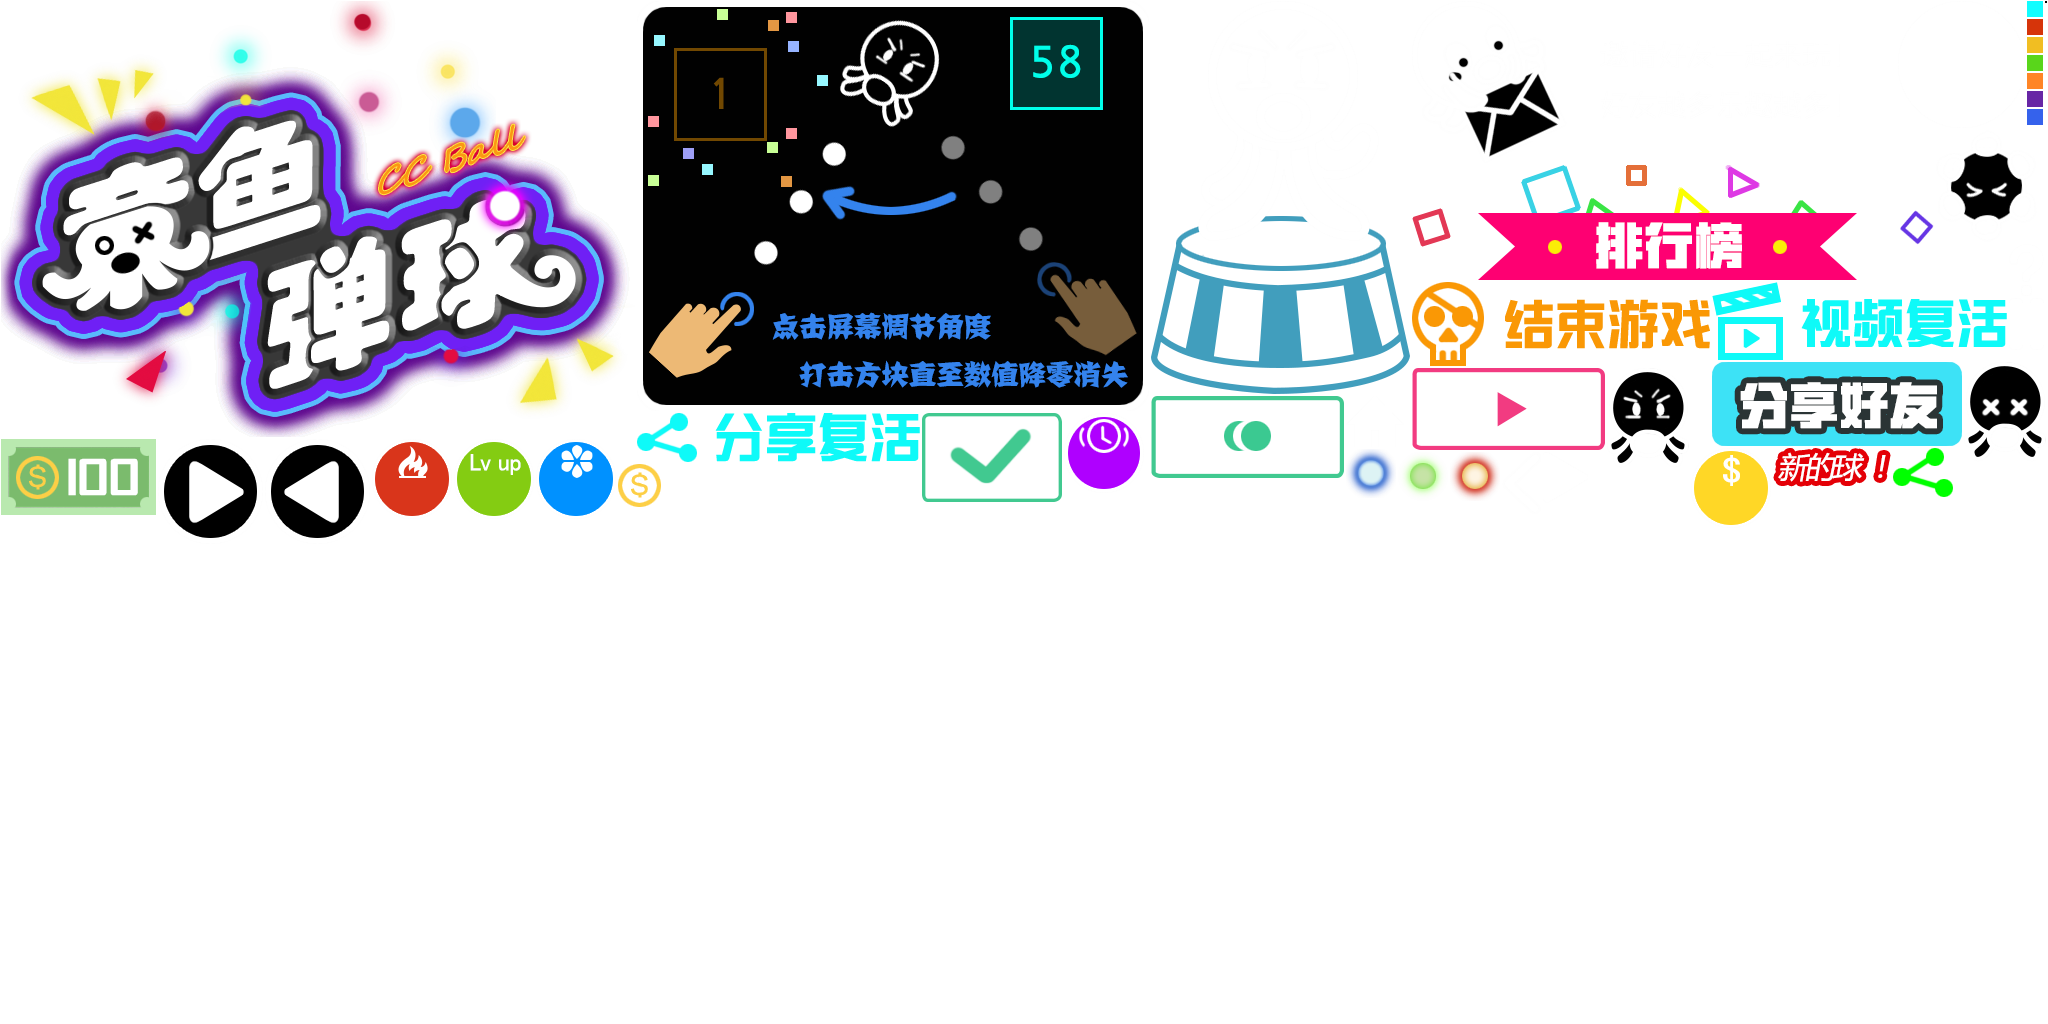
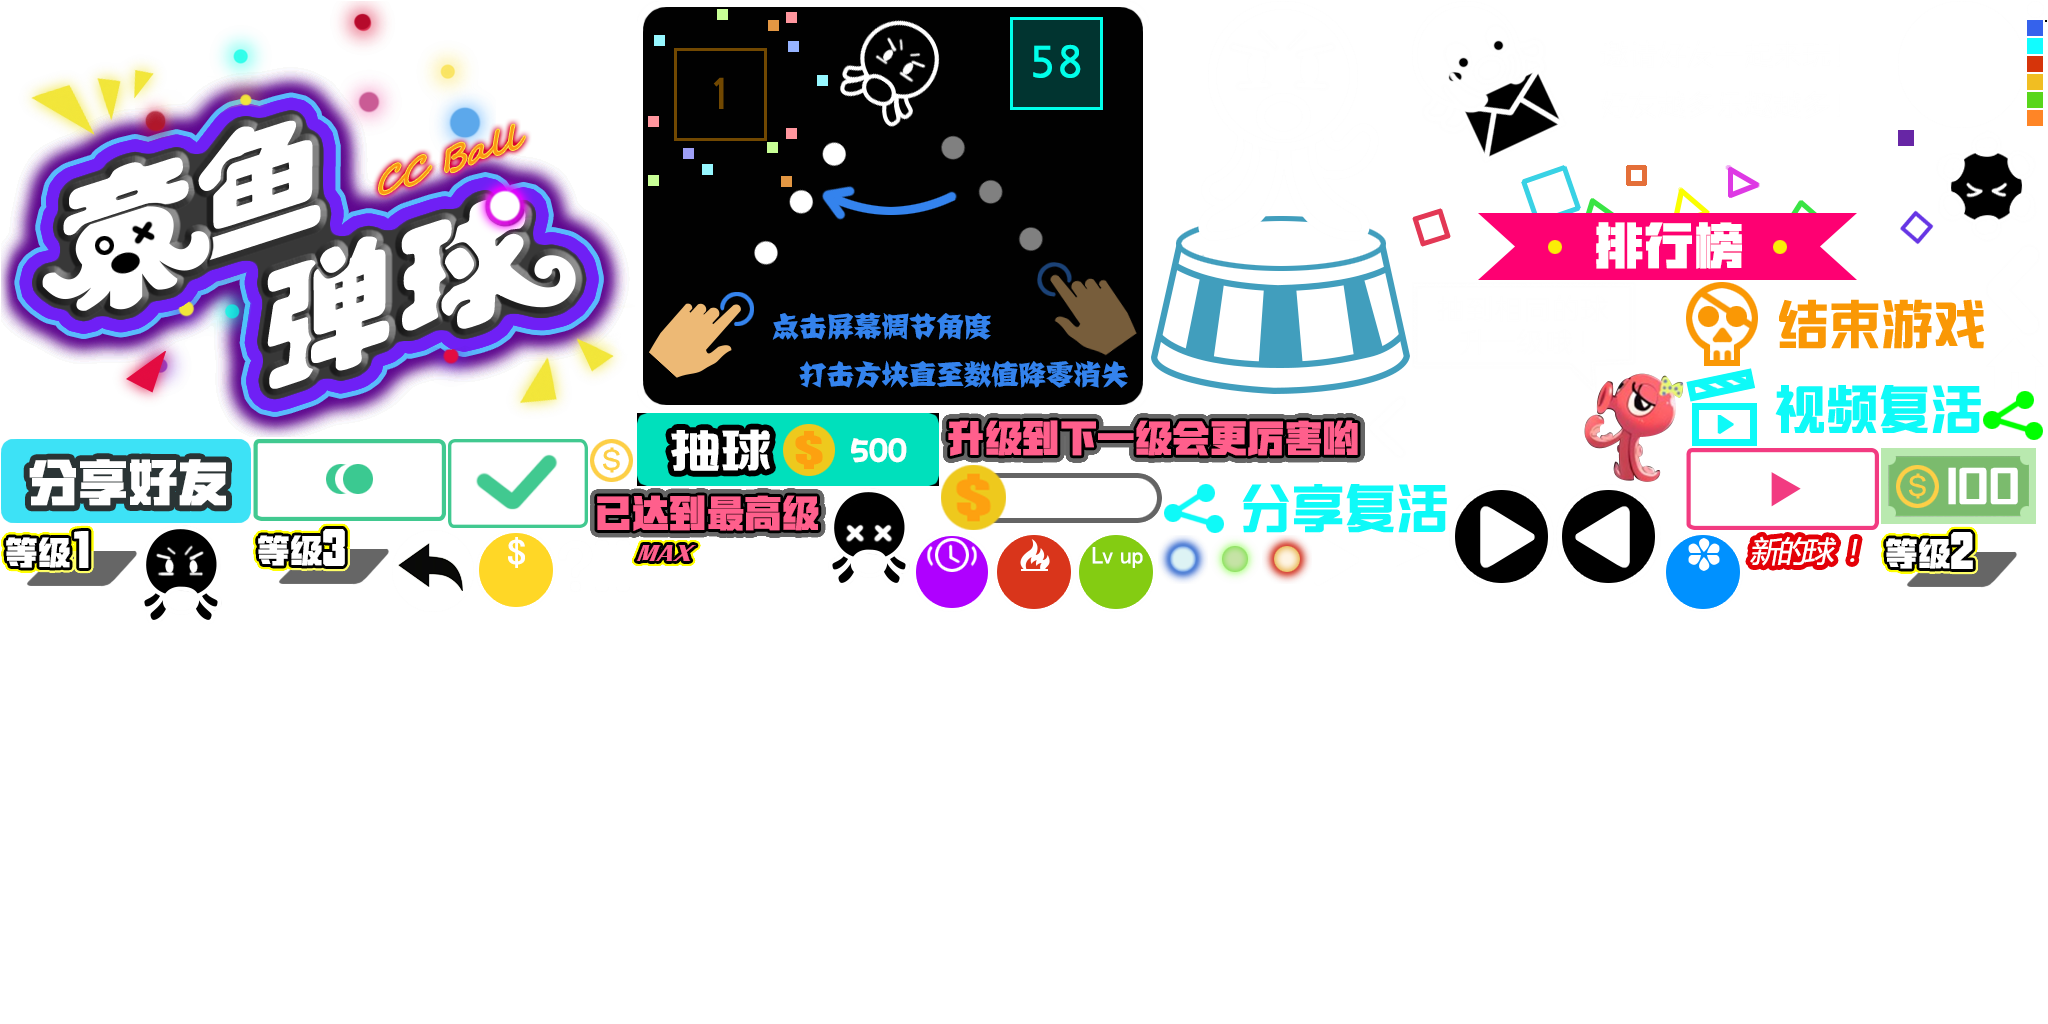
商店资源合入

Changed region(s): [[0.0, 0.2812, 1.0, 0.5938], [0.9688, 0.0, 1.0, 0.125], [0.9062, 0.125, 0.9375, 0.1562]]

diff --git a/BallProject/src/GameView/SecondaryView/ShopView.ts b/BallProject/src/GameView/SecondaryView/ShopView.ts
@@ -1,27 +1,35 @@
 class ShopView extends egret.DisplayObjectContainer
 {
-    private bgCover:FullScreenCover;
-    private noGoodsTitle:egret.TextField;
-    private noGoodsDetail:egret.TextField;
-    private back:ShapeBgButton;
-    private callbackObj:any;
-    private callbackFun:Function;
+    private bgCover: FullScreenCover;
+    private noGoodsTitle: egret.TextField;
+    private noGoodsDetail: egret.TextField;
+    private back: ShapeBgButton;
+    private callbackObj: any;
+    private callbackFun: Function;
 
     private previousBtn: ShapeBgButton;
     private nextBtn: ShapeBgButton;
     private selectBtn: ShapeBgButton;
     private lotteryBtn: ShapeBgButton;
-    
+
     private resModule: IResModule;
     private ballConfigModule: IBallConfigModule;
+    private playerDataModule: IPlayerDataModule;
+
     private curShowBallPosIndex: number;
     private curShowBallId: number;
     private totalBallCount: number;
 
+    private coinBitmap: egret.Bitmap;
+    private coinText: egret.TextField;
+
     private selectBallRoot: egret.DisplayObjectContainer;
     private ballBitmap: egret.Bitmap;
     private ballIndexText: egret.TextField;
+    private ballLevelBitmap: egret.Bitmap;
+    private ballLevelMaxBitmap: egret.Bitmap;
     private ballNameText: egret.TextField;
+    private ballSkillText: egret.TextField;
     private curLevelText: egret.TextField;
     private nextLevelText: egret.TextField;
 
@@ -32,11 +40,14 @@ class ShopView extends egret.DisplayObjectContainer
         super();
         this.resModule = <IResModule>GameMain.GetInstance().GetModule(ModuleType.RES);
         this.ballConfigModule = <IBallConfigModule>GameMain.GetInstance().GetModule(ModuleType.BALL_CONFIG);
+        this.playerDataModule = <IPlayerDataModule>GameMain.GetInstance().GetModule(ModuleType.PLAYER_DATA);
 
         this.CreateBgCover();
         // this.CreateTitle();
         // this.CreateDetail();
         this.CreateBack();
+
+        this.CreateCoin();
 
         this.curShowBallPosIndex = 1;
         this.totalBallCount = this.ballConfigModule.GetTotalBallCount();
@@ -52,11 +63,11 @@ class ShopView extends egret.DisplayObjectContainer
         this.addChild(this.selectBallRoot);
 
         this.CreateSelectViewButton();
-        
+
         this.RefreshBallInfo();
     }
 
-    public Init(callbackFun:Function, callbackObj:any)
+    public Init(callbackFun: Function, callbackObj: any)
     {
         this.callbackFun = callbackFun;
         this.callbackObj = callbackObj;
@@ -74,6 +85,31 @@ class ShopView extends egret.DisplayObjectContainer
         this.addChild(this.bgCover);
     }
 
+    private CreateCoin()
+    {
+        Tools.DetachDisplayObjFromParent(this.coinBitmap);
+        Tools.DetachDisplayObjFromParent(this.coinText);
+
+        this.coinText = new egret.TextField();
+        this.coinText.size = 40;
+        this.coinText.textColor = 0xFFFFFF;
+        this.coinText.text = this.playerDataModule.GetCoin().toString();
+        this.coinText.textAlign = "center";
+        this.coinText.width = 400;
+        this.coinText.height = 100;
+        Tools.SetAnchor(this.coinText, AnchorType.Center);
+        this.coinText.x = GameMain.GetInstance().GetStageWidth() - 100;
+        this.coinText.y = 130;
+        this.addChild(this.coinText);
+
+        this.coinBitmap = this.resModule.CreateBitmapByName("shopCoin");
+        Tools.SetAnchor(this.coinBitmap, AnchorType.Center);
+        this.coinBitmap.x = GameMain.GetInstance().GetStageWidth() - this.coinBitmap.width / 2 - 15;
+        this.coinBitmap.y = 100;
+        this.addChild(this.coinBitmap);
+
+    }
+
     private RefreshBallInfo()
     {
         Tools.DetachDisplayObjFromParent(this.ballIndexText);
@@ -81,6 +117,15 @@ class ShopView extends egret.DisplayObjectContainer
         Tools.DetachDisplayObjFromParent(this.ballNameText);
         Tools.DetachDisplayObjFromParent(this.curLevelText);
         Tools.DetachDisplayObjFromParent(this.nextLevelText);
+        Tools.DetachDisplayObjFromParent(this.ballSkillText);
+        Tools.DetachDisplayObjFromParent(this.ballLevelBitmap);
+        Tools.DetachDisplayObjFromParent(this.ballLevelMaxBitmap);
+
+        this.curShowBallId = this.GetShopViewBallIdByIndex(this.curShowBallPosIndex);
+        var ballLevel = this.ballConfigModule.GetMyBallLevel(this.curShowBallId);
+        var hasThisBall = ballLevel > 0;
+        var curLevel = hasThisBall ? ballLevel : 1;
+        var curLevelBallConfig = this.ballConfigModule.GetBallConfig(this.curShowBallId, curLevel);
 
         this.ballIndexText = new egret.TextField();
         this.ballIndexText.size = 40;
@@ -91,22 +136,32 @@ class ShopView extends egret.DisplayObjectContainer
         this.ballIndexText.height = 100;
         Tools.SetAnchor(this.ballIndexText, AnchorType.Center);
         this.ballIndexText.x = GameMain.GetInstance().GetStageWidth() / 2;
-        this.ballIndexText.y = 300;
+        this.ballIndexText.y = 130;
         this.selectBallRoot.addChild(this.ballIndexText);
-
-        this.curShowBallId = this.GetShopViewBallIdByIndex(this.curShowBallPosIndex);
-        var ballLevel = this.ballConfigModule.GetMyBallLevel(this.curShowBallId);
-        var hasThisBall = ballLevel > 0;
-        var curLevel = hasThisBall ? ballLevel : 1;
-        var curLevelBallConfig = this.ballConfigModule.GetBallConfig(this.curShowBallId, curLevel);
 
         this.ballBitmap = this.resModule.CreateBitmapByName(curLevelBallConfig.textureName);
         this.ballBitmap.width = curLevelBallConfig.ballRadius * 10;
         this.ballBitmap.height = curLevelBallConfig.ballRadius * 10;
         Tools.SetAnchor(this.ballBitmap, AnchorType.Center);
         this.ballBitmap.x = GameMain.GetInstance().GetStageWidth() / 2;
-        this.ballBitmap.y = 400;
+        this.ballBitmap.y = 300;
         this.selectBallRoot.addChild(this.ballBitmap);
+
+        this.ballLevelBitmap = this.resModule.CreateBitmapByName("level" + curLevelBallConfig.level);
+        Tools.SetAnchor(this.ballLevelBitmap, AnchorType.Center);
+        this.ballLevelBitmap.x = GameMain.GetInstance().GetStageWidth() / 2 + 200;
+        this.ballLevelBitmap.y = 180;
+        this.selectBallRoot.addChild(this.ballLevelBitmap);
+
+        if (curLevelBallConfig.level == curLevelBallConfig.maxLevel)
+        {
+            this.ballLevelMaxBitmap = this.resModule.CreateBitmapByName("levelMax");
+            Tools.SetAnchor(this.ballLevelMaxBitmap, AnchorType.Center);
+            this.ballLevelMaxBitmap.x = GameMain.GetInstance().GetStageWidth() / 2 + 230;
+            this.ballLevelMaxBitmap.y = 210;
+            this.selectBallRoot.addChild(this.ballLevelMaxBitmap);
+        }
+
 
         this.ballNameText = new egret.TextField();
         this.ballNameText.size = 40;
@@ -114,23 +169,36 @@ class ShopView extends egret.DisplayObjectContainer
         this.ballNameText.text = curLevelBallConfig.name;
         this.ballNameText.textAlign = "center";
         this.ballNameText.width = 400;
-        this.ballNameText.height = 100;
+        this.ballNameText.height = 300;
         Tools.SetAnchor(this.ballNameText, AnchorType.Center);
         this.ballNameText.x = GameMain.GetInstance().GetStageWidth() / 2;
         this.ballNameText.y = 600;
         this.selectBallRoot.addChild(this.ballNameText);
 
+        this.ballSkillText = new egret.TextField();
+        this.ballSkillText.size = 30;
+        this.ballSkillText.textColor = 0xFFFFFF;
+        this.ballSkillText.text = "- " + curLevelBallConfig.skillDes + " -";
+        this.ballSkillText.textAlign = "center";
+        this.ballSkillText.width = GameMain.GetInstance().GetStageWidth();
+        this.ballSkillText.height = 300;
+        Tools.SetAnchor(this.ballSkillText, AnchorType.Center);
+        this.ballSkillText.x = GameMain.GetInstance().GetStageWidth() / 2;
+        this.ballSkillText.y = 650;
+        this.selectBallRoot.addChild(this.ballSkillText);
+
+
         this.curLevelText = new egret.TextField();
         this.curLevelText.size = 40;
         this.curLevelText.textColor = 0xFFFFFF;
         this.curLevelText.textFlow = <Array<egret.ITextElement>>
-        [
-            { text:"等级" + curLevel + "\n", style:{"textColor":0xFFC900, "size":40} },
-            { text:"半径: " + curLevelBallConfig.ballRadius + "\n", style:{"textColor":0xFFFFFF, "size":30} },
-            { text:"速度: " + curLevelBallConfig.emitSpeed + "\n", style:{"textColor":0xFFFFFF, "size":30} },
-            { text:"技能: "  , style:{"textColor":0xFFFFFF, "size":30} },
-            { text:curLevelBallConfig.Describe , style:{"textColor":0x00EC00, "size":30} },
-        ]
+            [
+                { text: "等级" + curLevel + "\n", style: { "textColor": 0xFFC900, "size": 40 } },
+                { text: "半径: " + curLevelBallConfig.ballRadius + "\n", style: { "textColor": 0xFFFFFF, "size": 30 } },
+                { text: "速度: " + curLevelBallConfig.emitSpeed + "\n", style: { "textColor": 0xFFFFFF, "size": 30 } },
+                { text: "技能: ", style: { "textColor": 0xFFFFFF, "size": 30 } },
+                { text: curLevelBallConfig.Describe, style: { "textColor": 0x00EC00, "size": 30 } },
+            ]
         this.curLevelText.textAlign = "left";
         this.curLevelText.width = GameMain.GetInstance().GetStageWidth() / 3;
         this.curLevelText.height = 600;
@@ -150,23 +218,23 @@ class ShopView extends egret.DisplayObjectContainer
             {
                 this.nextLevelText.textAlign = "left";
                 this.nextLevelText.textFlow = <Array<egret.ITextElement>>
-                [
-                    { text:"等级" + nextLevel + "\n", style:{"textColor":0xFFC900, "size":40} },
-                    { text:"半径: " + nextLevelBallConfig.ballRadius + "\n", style:{"textColor":0xFFFFFF, "size":30} },
-                    { text:"速度: " + nextLevelBallConfig.emitSpeed + "\n", style:{"textColor":0xFFFFFF, "size":30} },
-                    { text:"技能: "  , style:{"textColor":0xFFFFFF, "size":30} },
-                    { text:curLevelBallConfig.Describe , style:{"textColor":0x00EC00, "size":30} },
-                ]
+                    [
+                        { text: "等级" + nextLevel + "\n", style: { "textColor": 0xFFC900, "size": 40 } },
+                        { text: "半径: " + nextLevelBallConfig.ballRadius + "\n", style: { "textColor": 0xFFFFFF, "size": 30 } },
+                        { text: "速度: " + nextLevelBallConfig.emitSpeed + "\n", style: { "textColor": 0xFFFFFF, "size": 30 } },
+                        { text: "技能: ", style: { "textColor": 0xFFFFFF, "size": 30 } },
+                        { text: curLevelBallConfig.Describe, style: { "textColor": 0x00EC00, "size": 30 } },
+                    ]
             }
             else
             {
                 this.nextLevelText.textAlign = "center";
                 this.nextLevelText.textFlow = <Array<egret.ITextElement>>
-                [
-                    { text:"已满级" , style:{"textColor":0xFFC900, "size":50} },
-                ]
+                    [
+                        { text: "已满级", style: { "textColor": 0xFFC900, "size": 50 } },
+                    ]
             }
-            
+
             this.nextLevelText.width = GameMain.GetInstance().GetStageWidth() / 3;
             this.nextLevelText.height = 600;
             Tools.SetAnchor(this.nextLevelText, AnchorType.Center);
@@ -177,14 +245,14 @@ class ShopView extends egret.DisplayObjectContainer
     }
 
     // 根据商店展示优先级获得球的ID（index从1开始）
-	public GetShopViewBallIdByIndex(index: number): number
-	{
+    public GetShopViewBallIdByIndex(index: number): number
+    {
         var myBallCount = this.ballConfigModule.GetMyBallList().length;
-		if (index <= myBallCount)
-		{
+        if (index <= myBallCount)
+        {
             var myBallList = this.ballConfigModule.GetMyBallList();
-			return myBallList[index - 1].id;
-		}
+            return myBallList[index - 1].id;
+        }
         else
         {
             var leftIndex = index - myBallCount;
@@ -201,7 +269,7 @@ class ShopView extends egret.DisplayObjectContainer
             }
         }
         return 1;
-	}
+    }
 
     private CreateDetail()
     {
@@ -210,16 +278,16 @@ class ShopView extends egret.DisplayObjectContainer
         this.noGoodsDetail.textColor = 0xFFFFFF;
 
         this.noGoodsDetail.textFlow = <Array<egret.ITextElement>>
-        [
-            { text:"在商店里，你可以使用弹球游戏中获得的", style:{"textColor":0xFFFFFF, "size":30} },
-            { text:"金币", style:{"textColor":0xFFC900, "size":30} },
-            { text:"购买", style:{"textColor":0xFFFFFF, "size":30} },
-            { text:"炫酷且具有特殊技能", style:{"textColor":0xFFC900, "size":30} },
-            { text:"的弹球\n\n但是店里没有存货了\n", style:{"textColor":0xFFFFFF, "size":30} },
-            { text:"兔女郎", style:{"textColor":0xB90086, "size":30}},
-            { text:"已经出门进货了\n", style:{"textColor":0xFFFFFF, "size":30}},
-            { text:"所以敬请期待吧~", style:{"textColor":0xFFFFFF, "size":30}},
-        ]
+            [
+                { text: "在商店里，你可以使用弹球游戏中获得的", style: { "textColor": 0xFFFFFF, "size": 30 } },
+                { text: "金币", style: { "textColor": 0xFFC900, "size": 30 } },
+                { text: "购买", style: { "textColor": 0xFFFFFF, "size": 30 } },
+                { text: "炫酷且具有特殊技能", style: { "textColor": 0xFFC900, "size": 30 } },
+                { text: "的弹球\n\n但是店里没有存货了\n", style: { "textColor": 0xFFFFFF, "size": 30 } },
+                { text: "兔女郎", style: { "textColor": 0xB90086, "size": 30 } },
+                { text: "已经出门进货了\n", style: { "textColor": 0xFFFFFF, "size": 30 } },
+                { text: "所以敬请期待吧~", style: { "textColor": 0xFFFFFF, "size": 30 } },
+            ]
 
         this.noGoodsDetail.textAlign = "center";
         this.noGoodsDetail.width = 400;
@@ -258,7 +326,7 @@ class ShopView extends egret.DisplayObjectContainer
         this.addChild(this.back);
     }
 
-    private OnClickBack(callbackObj:any)
+    private OnClickBack(callbackObj: any)
     {
         callbackObj.callbackFun(callbackObj.callbackObj);
     }
@@ -266,32 +334,32 @@ class ShopView extends egret.DisplayObjectContainer
     private CreateSelectViewButton()
     {
         Tools.DetachDisplayObjFromParent(this.previousBtn);
-        this.previousBtn = new ShapeBgButton(ShapeBgType.Rect, 0x00000000, 0, 0, "pd_res_json.return", 39, 64, 39, 64, this.OnClickPreviousBtn, this);
+        this.previousBtn = new ShapeBgButton(ShapeBgType.Rect, 0x00000000, 0, 0, "pd_res_json.ballLeft", 92, 92, 92, 92, this.OnClickPreviousBtn, this);
         this.previousBtn.x = 50 + this.previousBtn.width / 2;
-        this.previousBtn.y = 500;
+        this.previousBtn.y = 300;
         this.addChild(this.previousBtn);
 
         Tools.DetachDisplayObjFromParent(this.nextBtn);
-        this.nextBtn = new ShapeBgButton(ShapeBgType.Rect, 0x00000000, 0, 0, "pd_res_json.return", 39, 64, 39, 64, this.OnClickNextBtn, this);
+        this.nextBtn = new ShapeBgButton(ShapeBgType.Rect, 0x00000000, 0, 0, "pd_res_json.ballLeft", 92, 92, 92, 92, this.OnClickNextBtn, this);
         this.nextBtn.x = GameMain.GetInstance().GetStageWidth() - 50 - this.nextBtn.width / 2;
         this.nextBtn.rotation = 180;
-        this.nextBtn.y = 500;
+        this.nextBtn.y = 300;
         this.addChild(this.nextBtn);
 
         Tools.DetachDisplayObjFromParent(this.selectBtn);
         this.selectBtn = new ShapeBgButton(ShapeBgType.Rect, 0x00000000, 0, 0, "pd_res_json.SelectBall_OK", 143, 91, 143, 91, this.OnClickSelectBtn, this);
-        this.selectBtn.x = GameMain.GetInstance().GetStageWidth()/ 2;
-        this.selectBtn.y = GameMain.GetInstance().GetStageHeight() - 150;
+        this.selectBtn.x = GameMain.GetInstance().GetStageWidth() / 2;
+        this.selectBtn.y = 600;
         this.addChild(this.selectBtn);
 
         Tools.DetachDisplayObjFromParent(this.lotteryBtn);
-        this.lotteryBtn = new ShapeBgButton(ShapeBgType.Rect, 0x00000000, 0, 0, "pd_res_json.cash", 143, 91, 143, 91, this.OnClickLotteryBtn, this);
-        this.lotteryBtn.x = GameMain.GetInstance().GetStageWidth() - this.lotteryBtn.width - 100;
-        this.lotteryBtn.y = 150;
+        this.lotteryBtn = new ShapeBgButton(ShapeBgType.Rect, 0x00000000, 0, 0, "pd_res_json.lottyBtn", 302, 73, 302, 73, this.OnClickLotteryBtn, this);
+        this.lotteryBtn.x = GameMain.GetInstance().GetStageWidth() / 2;
+        this.lotteryBtn.y = GameMain.GetInstance().GetStageHeight() - 150;
         this.addChild(this.lotteryBtn);
     }
 
-    private OnClickPreviousBtn(callbackObj:any)
+    private OnClickPreviousBtn(callbackObj: any)
     {
         if (callbackObj.curShowBallPosIndex > 1)
         {
@@ -300,16 +368,16 @@ class ShopView extends egret.DisplayObjectContainer
         }
     }
 
-    private OnClickNextBtn(callbackObj:any)
+    private OnClickNextBtn(callbackObj: any)
     {
-         if (callbackObj.curShowBallPosIndex < callbackObj.totalBallCount)
-         {
+        if (callbackObj.curShowBallPosIndex < callbackObj.totalBallCount)
+        {
             ++callbackObj.curShowBallPosIndex;
             callbackObj.RefreshBallInfo();
-         }
+        }
     }
 
-    private OnClickSelectBtn(callbackObj:any)
+    private OnClickSelectBtn(callbackObj: any)
     {
         var ballConfigModule = <IBallConfigModule>GameMain.GetInstance().GetModule(ModuleType.BALL_CONFIG);
         ballConfigModule.ChangeSelectBall(callbackObj.curShowBallId);
@@ -317,14 +385,14 @@ class ShopView extends egret.DisplayObjectContainer
         callbackObj.RefreshBallInfo();
     }
 
-    private OnClickLotteryBtn(callbackObj:any)
+    private OnClickLotteryBtn(callbackObj: any)
     {
         callbackObj.lottyView = new LotteryView();
         callbackObj.lottyView.Init(callbackObj.OnCloseLotteryView, callbackObj);
         callbackObj.addChild(callbackObj.lottyView);
     }
 
-    private OnCloseLotteryView(callbackObj:any)
+    private OnCloseLotteryView(callbackObj: any)
     {
         egret.log("OnCloseLotteryView");
     }
